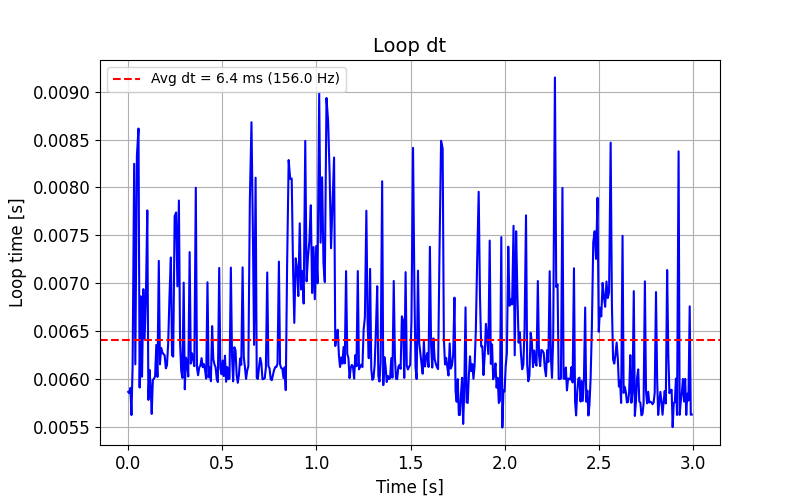
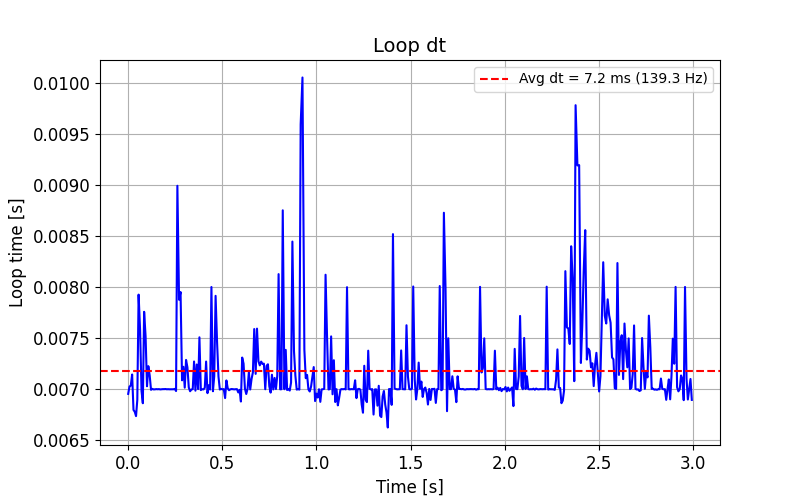
small updates

diff --git a/CDPR_python/bounce_plot.py b/CDPR_python/bounce_plot.py
@@ -124,6 +124,8 @@ class BallPlotter:
 
         self.create_hit_prediction_plot()
 
+        self.create_bounce_analysis_plot()
+
     # ---- XY TRAJECTORY ----
 
     def create_xy_plot(self):
@@ -388,6 +390,224 @@ class BallPlotter:
         ax.set_title("Predicted impact position")
         ax.set_xlabel("Time [s]")
         ax.set_ylabel("Position [m]")
+
+        ax.legend()
+
+        # ---- BOUNCE ANALYSIS ----
+
+    def create_bounce_analysis_plot(self):
+
+        y = self.ball_pos[:, 1]
+
+        # ------------------------------------------------------------
+        # FIND LOCAL MINIMA (impacts)
+        # ------------------------------------------------------------
+
+        impact_idx = []
+
+        MIN_BOUNCE_DT = 0.25   # seconds between impacts
+
+        last_impact_t = -np.inf
+
+        for i in range(1, len(y)-1):
+
+            is_minimum = (
+                y[i] < y[i-1]
+                and
+                y[i] < y[i+1]
+            )
+
+            if not is_minimum:
+                continue
+
+            t_now = self.t[i]
+
+            # reject duplicate minima
+            if (t_now - last_impact_t) < MIN_BOUNCE_DT:
+                continue
+
+            impact_idx.append(i)
+
+            last_impact_t = t_now
+
+        impact_idx = np.array(impact_idx)
+
+        # remove initial throw impact
+        impact_idx = impact_idx[1:]
+
+        # require enough bounces
+        if len(impact_idx) < 2:
+            print("Not enough impacts detected")
+            return
+
+        # ------------------------------------------------------------
+        # FIND APEX AFTER EACH IMPACT
+        # ------------------------------------------------------------
+
+        bounce_heights = []
+
+        impact_points = []
+
+        bounce_numbers = []
+
+        for k in range(len(impact_idx)-1):
+
+            i0 = impact_idx[k]
+            i1 = impact_idx[k+1]
+
+            # segment between impacts
+            segment = y[i0:i1]
+
+            if len(segment) == 0:
+                continue
+
+            # local apex
+            local_max_idx = np.argmax(segment)
+
+            apex_idx = i0 + local_max_idx
+
+            y_impact = y[i0]
+            y_apex = y[apex_idx]
+
+            height = y_apex - y_impact
+
+            MIN_HEIGHT = 0.03  # 3 cm
+
+            if height < MIN_HEIGHT:
+                continue
+
+            bounce_heights.append(height)
+
+            impact_points.append(self.ball_pos[i0, 1])
+
+            bounce_numbers.append(k)
+
+        bounce_heights = np.array(bounce_heights)
+        impact_points = np.array(impact_points)
+
+        # ------------------------------------------------------------
+        # STATISTICS
+        # ------------------------------------------------------------
+
+        mean_height = np.mean(bounce_heights)
+        std_height = np.std(bounce_heights)
+
+        min_height = np.min(bounce_heights)
+        max_height = np.max(bounce_heights)
+
+        mean_impact = np.mean(impact_points)
+        std_impact = np.std(impact_points)
+
+        print("\n=== Bounce statistics ===")
+
+        print(
+            f"Bounce height:\n"
+            f"  Mean: {mean_height*100:.2f} cm\n"
+            f"  Std:  {std_height*100:.2f} cm\n"
+            f"  Min:  {min_height*100:.2f} cm\n"
+            f"  Max:  {max_height*100:.2f} cm"
+        )
+
+        print(
+            f"\nImpact point x:\n"
+            f"  Mean: {mean_impact*100:.2f} cm\n"
+            f"  Std:  {std_impact*100:.2f} cm"
+        )
+
+        # ------------------------------------------------------------
+        # PLOT
+        # ------------------------------------------------------------
+
+        fig, ax = plt.subplots()
+
+        ax.plot(
+            bounce_numbers,
+            bounce_heights * 100,
+            marker="o"
+        )
+
+        ax.axhline(
+            mean_height * 100,
+            linestyle="--",
+            label=f"Mean = {mean_height*100:.1f} cm"
+        )
+
+        text = (
+            f"Mean: {mean_height*100:.1f} cm\n"
+            f"Std: {std_height*100:.1f} cm\n"
+            f"Min: {min_height*100:.1f} cm\n"
+            f"Max: {max_height*100:.1f} cm"
+        )
+
+        ax.text(
+            0.3,
+            0.98,
+            text,
+            transform=ax.transAxes,
+            verticalalignment="top",
+            bbox=dict(
+                boxstyle="round",
+                facecolor="white",
+                alpha=0.8
+            )
+        )
+
+        ax.set_title("Bounce height vs bounce number")
+
+        ax.set_xlabel("Bounce number")
+
+        ax.set_ylabel("Bounce height [cm]")
+
+        ax.legend()
+
+
+        # ------------------------------------------------------------
+        # IMPACT POINT PLOT
+        # ------------------------------------------------------------
+
+        fig, ax = plt.subplots()
+
+        impact_cm = impact_points * 100
+
+        ax.plot(
+            bounce_numbers,
+            impact_cm,
+            marker="o",
+            color="tab:orange"
+        )
+
+        ax.axhline(
+            mean_impact * 100,
+            linestyle="--",
+            color="tab:orange",
+            label=f"Mean = {mean_impact*100:.1f} cm"
+        )
+
+        impact_text = (
+            f"Mean: {mean_impact*100:.1f} cm\n"
+            f"Std: {std_impact*100:.1f} cm\n"
+            f"Min: {np.min(impact_cm):.1f} cm\n"
+            f"Max: {np.max(impact_cm):.1f} cm"
+        )
+
+        ax.text(
+            0.42,
+            0.98,
+            impact_text,
+            transform=ax.transAxes,
+            verticalalignment="top",
+            bbox=dict(
+                boxstyle="round",
+                facecolor="white",
+                alpha=0.8
+            )
+        )
+
+        ax.set_title("Impact height vs bounce number")
+
+        ax.set_xlabel("Bounce number")
+
+        ax.set_ylabel("Impact position y [cm]")
 
         ax.legend()
 

diff --git a/CDPR_python/ping_pong_bot.py b/CDPR_python/ping_pong_bot.py
@@ -2,8 +2,6 @@ import motor_actions as motor
 import camera as cam
 import parameters as p
 import geometry as geom
-import trajectory_planner as traj
-import utils
 import cv2
 import control_loop as ctrl
 
@@ -300,7 +298,7 @@ class BallBalanceController:
 
         for i in range(4):
             self.d_des[i] = self.d_0[i] - d_abs[i]
-            self.d_des[i] = traj.voltage_regulator(
+            self.d_des[i] = motor.voltage_regulator(
                 self.odrvs[i],
                 self.d_des[i]
             )
@@ -736,7 +734,7 @@ class BallBounceController:
                 self.d_0[i] - d_abs[i]
             )
 
-            self.d_des[i] = traj.voltage_regulator(
+            self.d_des[i] = motor.voltage_regulator(
                 self.odrvs[i],
                 self.d_des[i]
             )
@@ -1039,7 +1037,7 @@ def run_master_loop(
     prev_start = time.perf_counter()
 
 
-    MAX_BOUNCE_TIME = 10.0
+    MAX_BOUNCE_TIME = 65
 
     # MAIN LOOP
 

diff --git a/CDPR_python/motor_actions.py b/CDPR_python/motor_actions.py
@@ -203,3 +203,15 @@ def clear_all_errors(odrvs):
         dump_errors(odrv)
         odrv.clear_errors()
         print(f"ODRV {i} errors cleared")
+
+
+
+def voltage_regulator(odrv, d_des, V_THRESH=24.5, BIAS_MAX=0.02, K_V=0.005):
+    Vbus = odrv.vbus_voltage
+    if Vbus > V_THRESH:
+        delta_d = min(K_V * (Vbus - V_THRESH), BIAS_MAX)
+    else:
+        delta_d = 0.0
+
+    d_des -= delta_d
+    return d_des

diff --git a/CDPR_python/utils.py b/CDPR_python/utils.py
@@ -437,6 +437,8 @@ def init_live_cdpr_plot():
     ax.set_aspect("equal")
     ax.set_xlim(-1.0, 1.0)
     ax.set_ylim(-1.0, 1.0)
+    ax.set_ylabel("y [m]")
+    ax.set_xlabel("x [m]")
     ax.set_title("CDPR – Live Pose Estimate")
     ax.grid(True, alpha=0.3)
 

diff --git a/CDPR_python/plotting.py b/CDPR_python/plotting.py
@@ -384,4 +384,4 @@ def run(filepath):
 
 
 if __name__ == "__main__":
-    run("logs/controller_tests/circle_hybrid_12_20260428_161339.npz")
+    run("logs/controller_tests/dt_test_position_00_20260508_150615.npz")

diff --git a/CDPR_python/camera.py b/CDPR_python/camera.py
@@ -3,7 +3,6 @@ import numpy as np
 import time
 import parameters as p
 from collections import deque
-import geometry as geom
 import threading
 import sys, io
 
